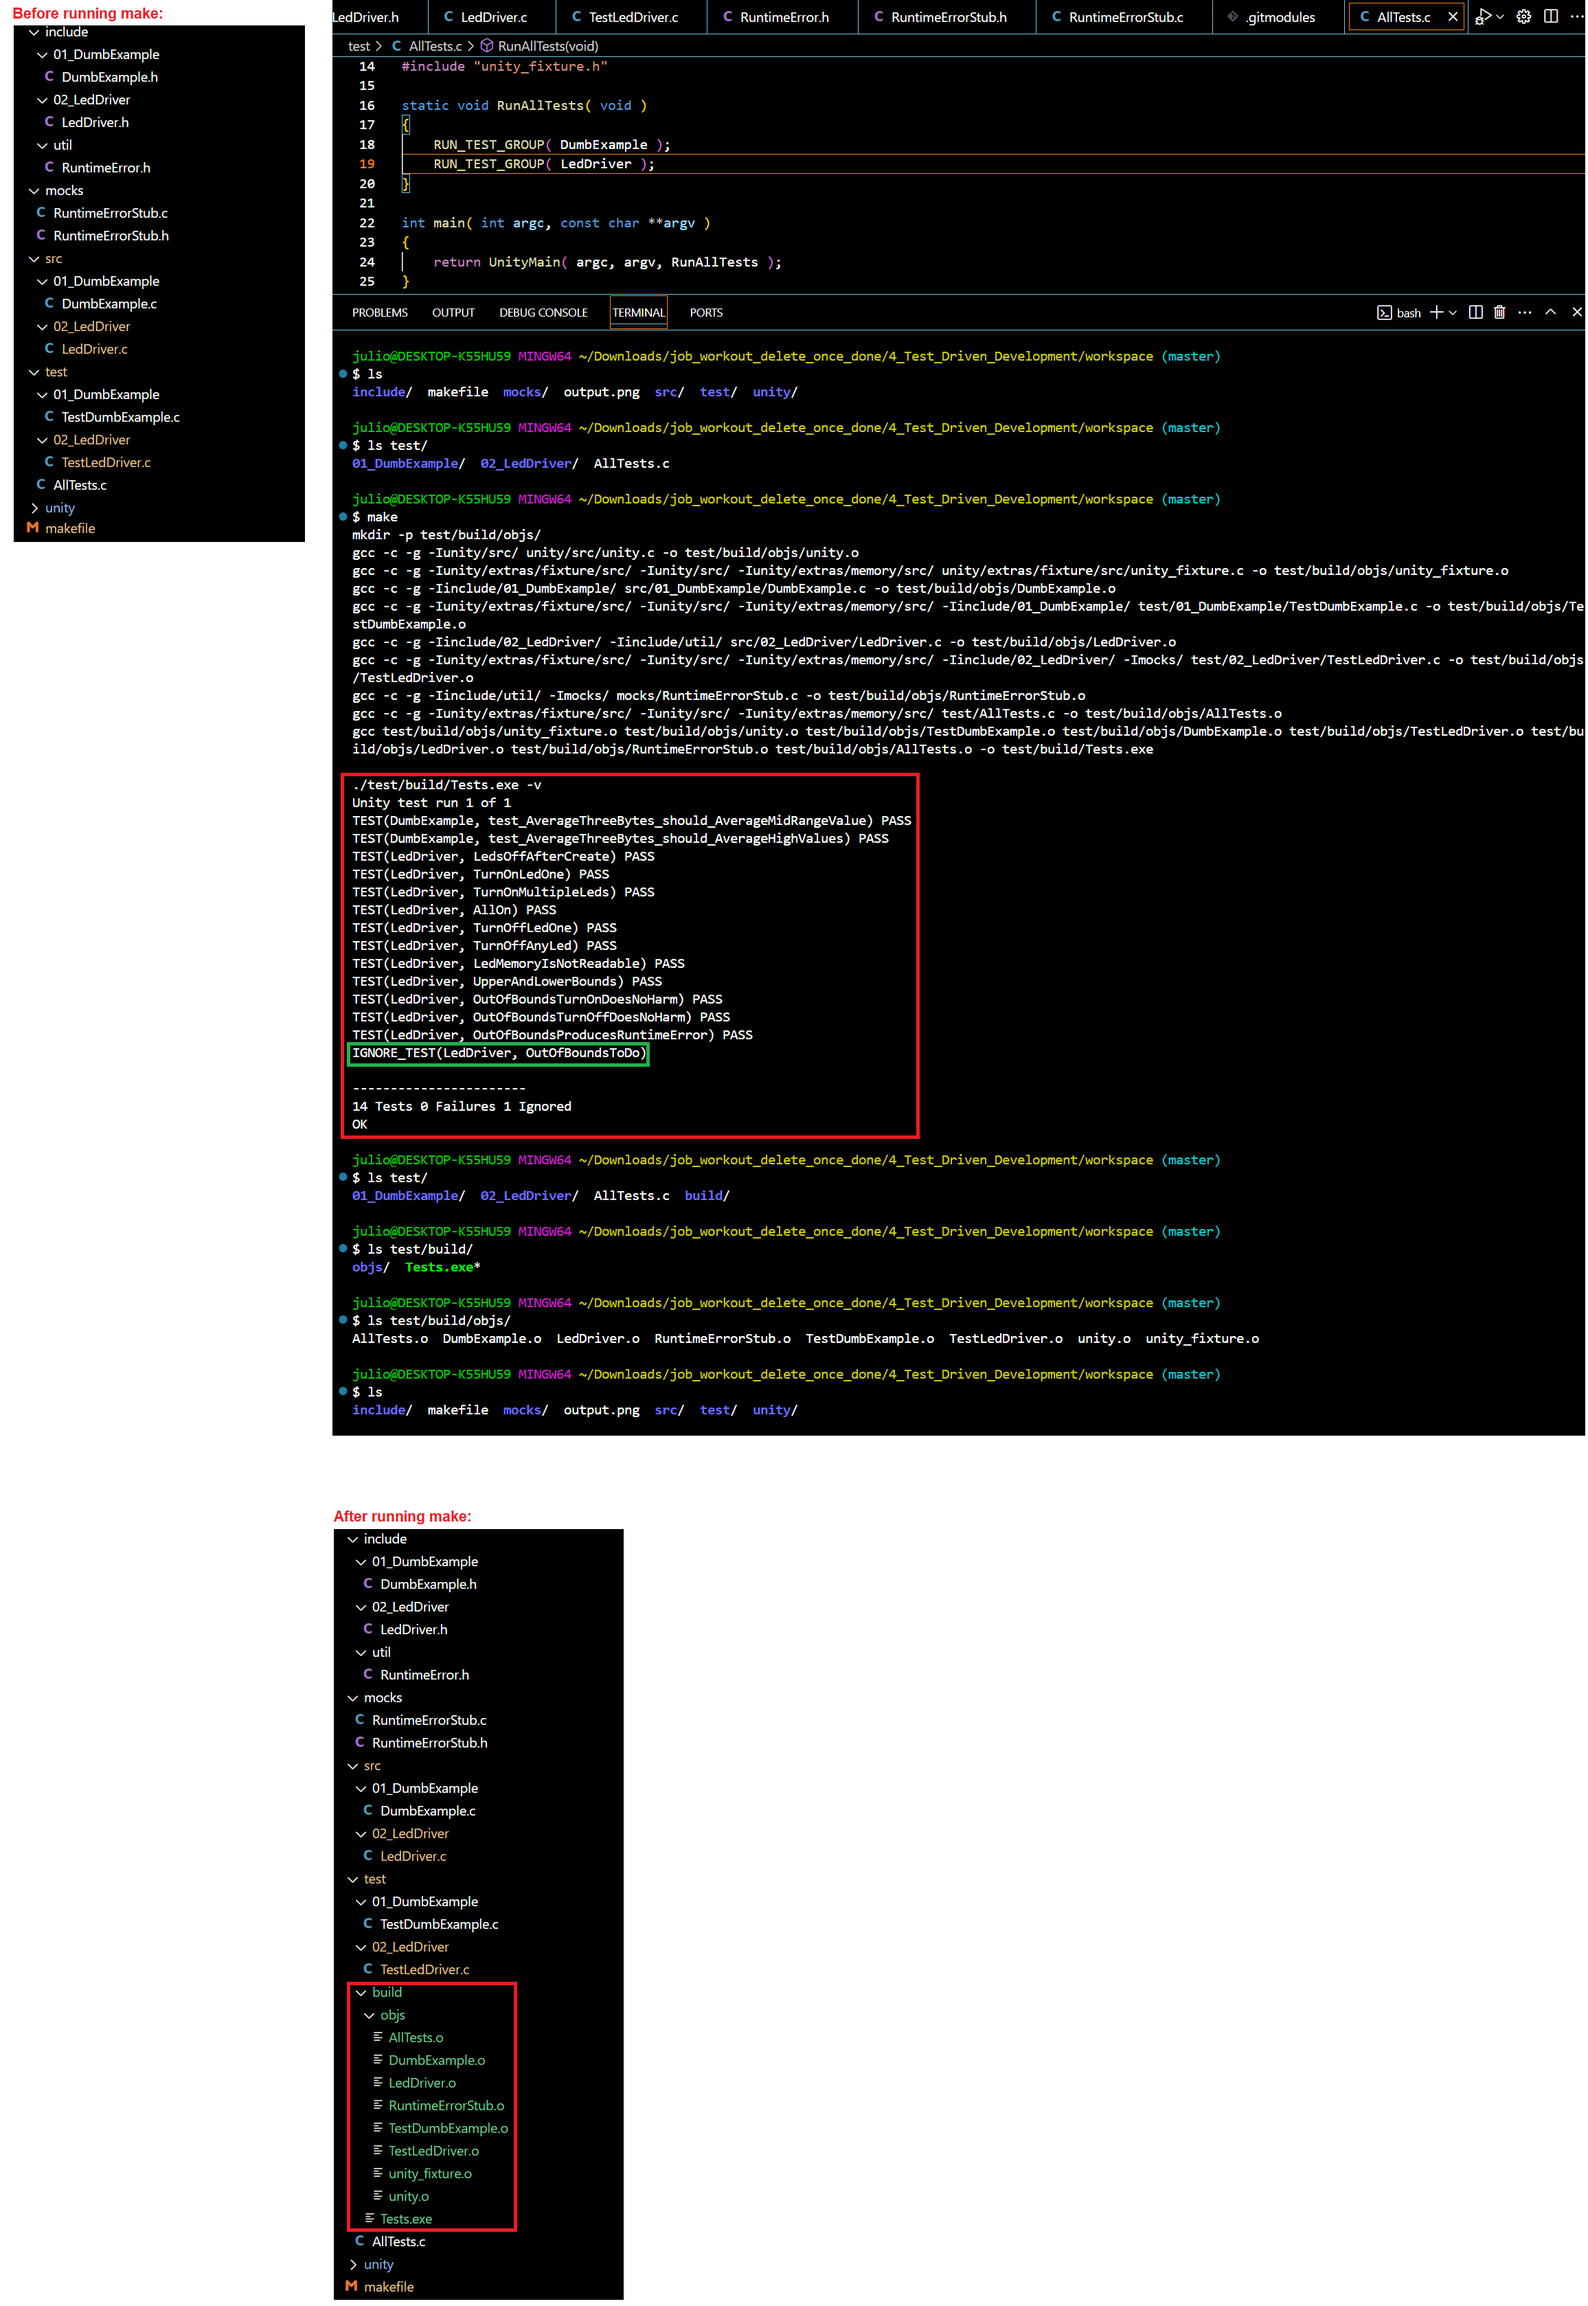
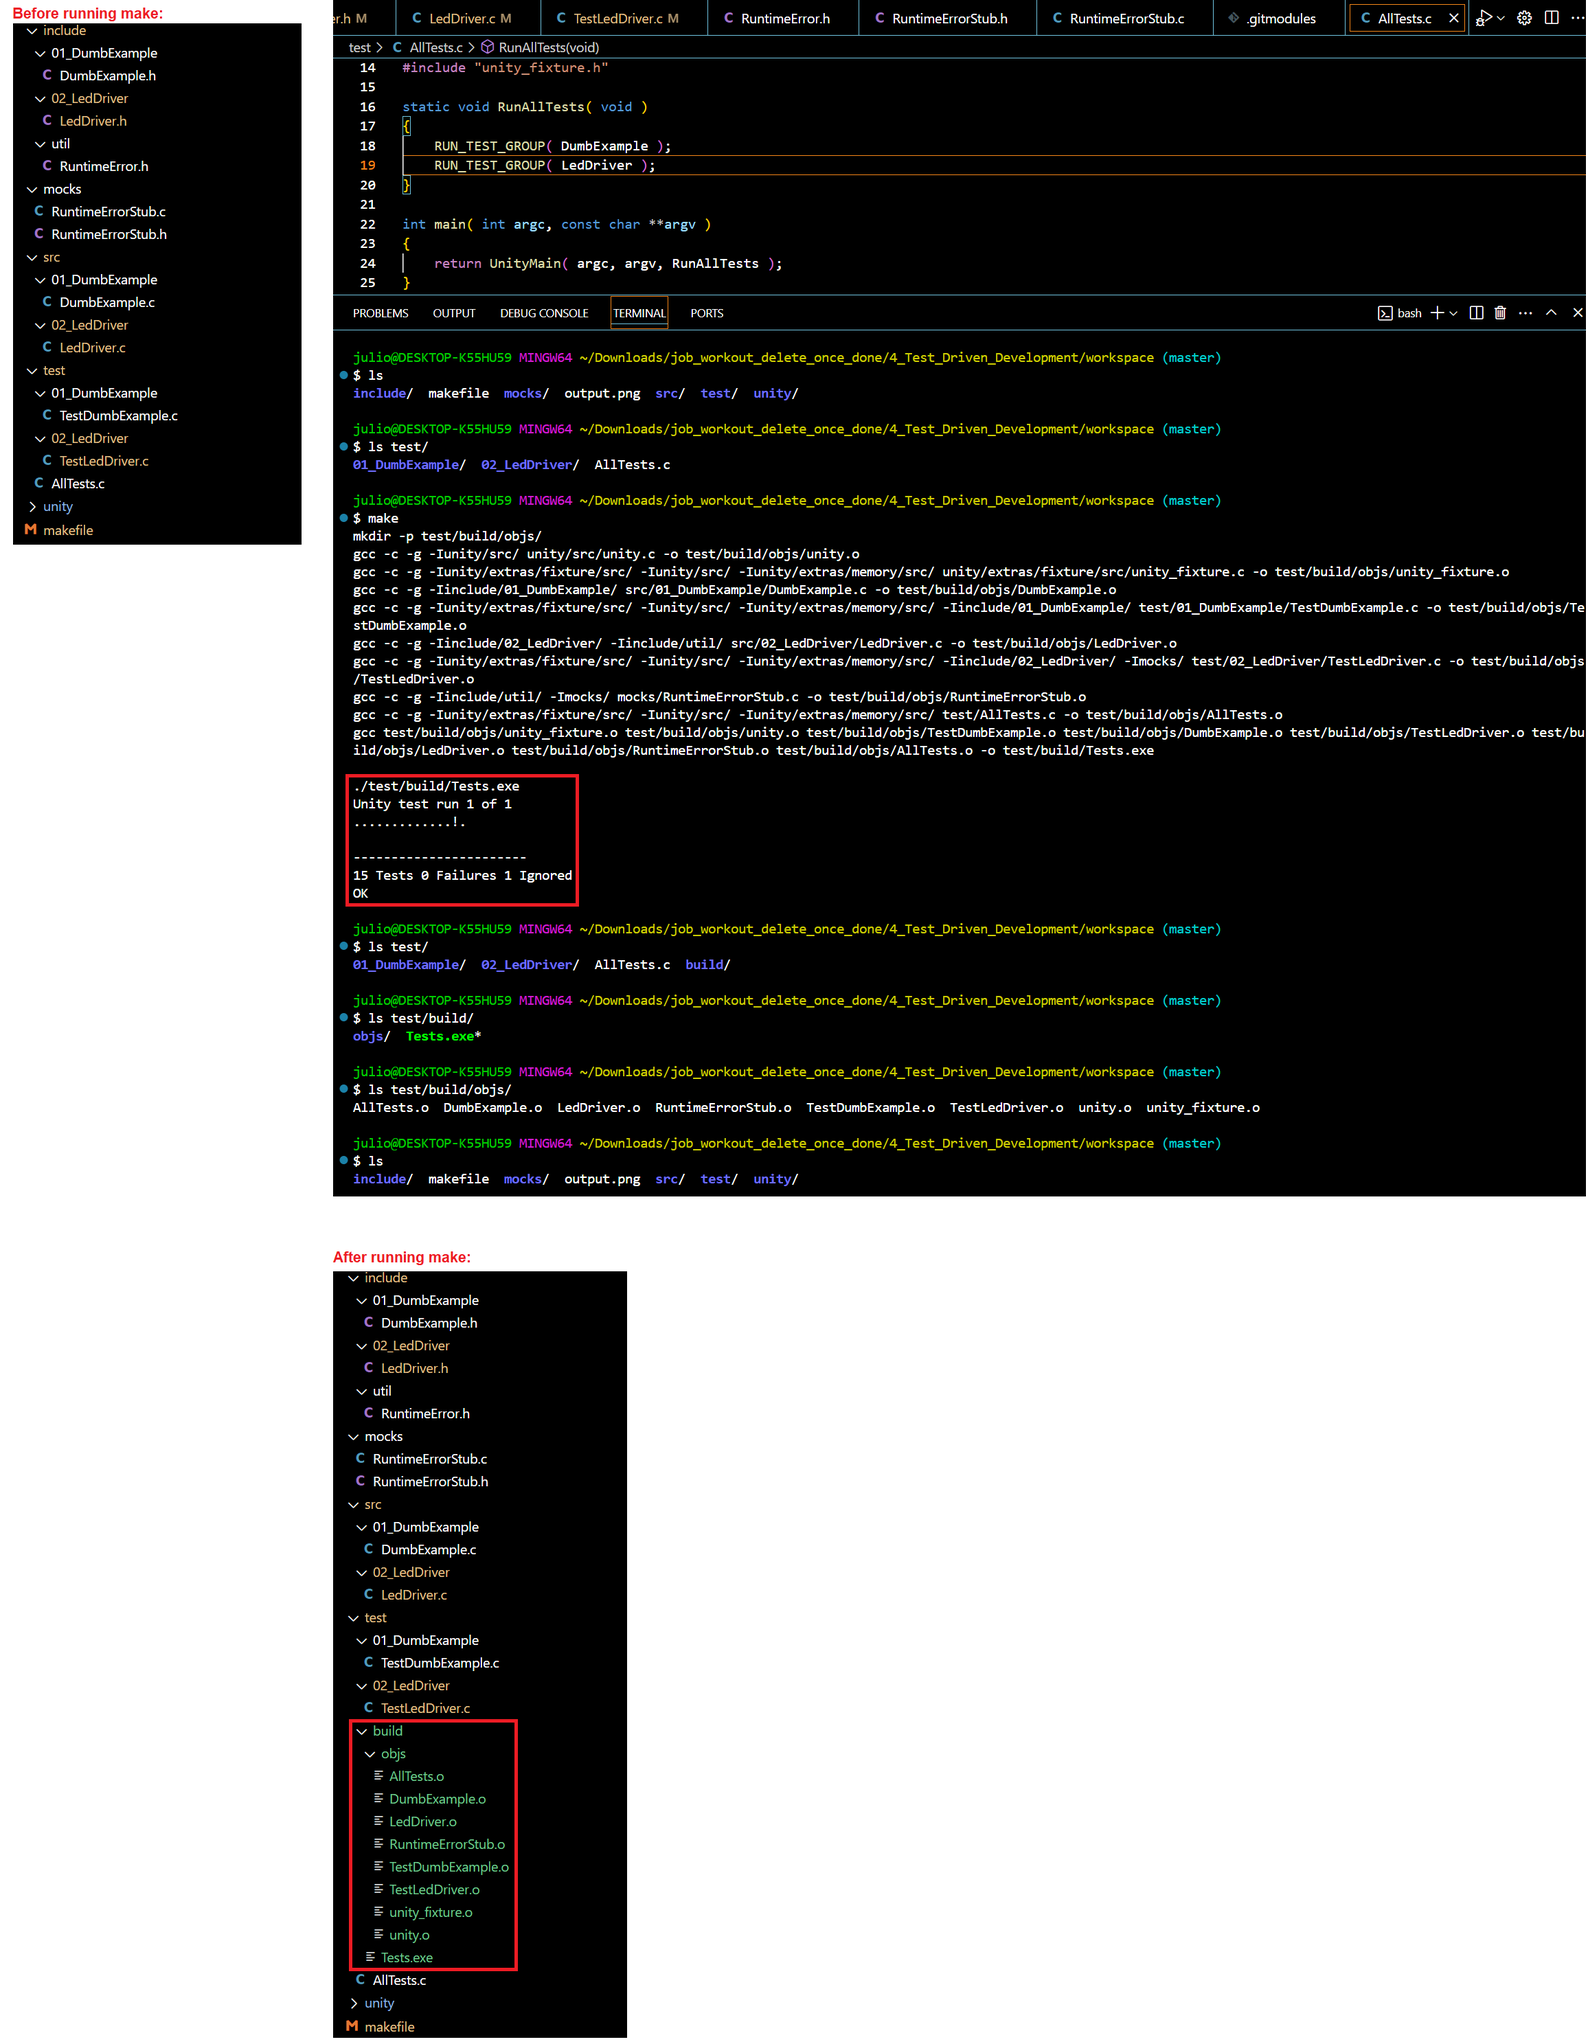
Add LedDriver IsOn test for LedDriver_IsOn()

Changed region(s): [[0.0, 0.0, 1.0, 1.0]]

diff --git a/test/02_LedDriver/TestLedDriver.c b/test/02_LedDriver/TestLedDriver.c
@@ -8,15 +8,21 @@
  * 
  *          LED Driver Tests:
  *          -----------------
- *          - All LEDs are off after the driver is initialized
- *          - A single LED can be turned on
- *          - A single LED can be turned off
- *          - Multiple LEDs can be turned on/off
- *          - Turn on all LEDs
- *          - Turn off all LEDs
- *          - Query LED state
- *          - Check boundary values
- *          - Check out-of-bounds values
+ *          x - All LEDs are off after the driver is initialized
+ *          x - A single LED can be turned on
+ *          x - A single LED can be turned off
+ *          x - Multiple LEDs can be turned on
+ *            - Multiple LEDs can be turned off
+ *          x - Turn on all LEDs
+ *            - Turn off all LEDs
+ *          x - Query LED state
+ *          x - Check boundary values
+ *            - Check out-of-bounds values:
+ *              x - Beyond max breaks nothing
+ *              x - Under min breaks nothing
+ *              x - Runtime error
+ *                - What should really happen?
+ *          x - Hardware interaction
  * 
  * @version 0.1
  * @date    2025-02-21
@@ -223,6 +229,22 @@ IGNORE_TEST( LedDriver, OutOfBoundsToDo )
    /* TODO: what should we do during runtime? */
 }
 
+/* TEST 13 */
+TEST( LedDriver, IsOn )
+{
+   /* *ledsAddress is first initialized to 0 (all LEDs off) due to
+      the calling to LedDriver_Create() before each test's execution */
+
+   /* check LED 11 is not on */
+   TEST_ASSERT_FALSE( LedDriver_IsOn( 11 ) );
+
+   /* turn on LED 11 */
+   LedDriver_TurnOn( 11 );
+
+   /* check LED 11 is on */
+   TEST_ASSERT_TRUE( LedDriver_IsOn( 11 ) );
+}
+
 TEST_GROUP_RUNNER( LedDriver )
 {
    /* TEST 1 */
@@ -260,4 +282,7 @@ TEST_GROUP_RUNNER( LedDriver )
 
    /* TEST 12 */
    RUN_TEST_CASE( LedDriver, OutOfBoundsToDo );
+
+   /* TEST 13 */
+   RUN_TEST_CASE( LedDriver, IsOn );
 }

diff --git a/src/02_LedDriver/LedDriver.c b/src/02_LedDriver/LedDriver.c
@@ -103,3 +103,8 @@ void LedDriver_TurnAllOn( void )
     /* turn on all the LEDs */
     updateHardware();
 }
+
+BOOL LedDriver_IsOn( int ledNumber )
+{
+    return ledsImage & ( convertLedNumberToBit( ledNumber ) );
+}

diff --git a/include/02_LedDriver/LedDriver.h b/include/02_LedDriver/LedDriver.h
@@ -18,5 +18,6 @@
     void LedDriver_TurnOn( uint16_t ledNumber );
     void LedDriver_TurnOff( uint16_t ledNumber );
     void LedDriver_TurnAllOn( void );
+    BOOL LedDriver_IsOn( int ledNumber );
 
 #endif
